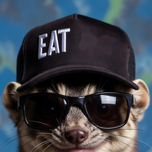
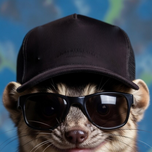
Give the home-screen weasel a plain black hat
Inpaint EAT as well as SHIT out of the cap on apple-touch, manifest, and
favicon icons so no lettering remains. Header logo stays uncensored.

Changed region(s): [[0.2368, 0.1842, 0.4737, 0.3947], [0.7368, 0.1579, 0.7895, 0.2105], [0.5263, 0.2895, 0.5526, 0.3421]]

diff --git a/index.html b/index.html
@@ -12,14 +12,14 @@
 <meta name="application-name" content="Weasel Hub">
 <meta name="apple-mobile-web-app-capable" content="yes"><meta name="mobile-web-app-capable" content="yes">
 <meta name="apple-mobile-web-app-status-bar-style" content="black-translucent">
-<link rel="apple-touch-icon" href="apple-touch-icon.png?v=3">
-<link rel="apple-touch-icon" sizes="180x180" href="apple-touch-icon.png?v=3">
-<link rel="apple-touch-icon" sizes="167x167" href="icons/icon-167.png?v=3">
-<link rel="apple-touch-icon" sizes="152x152" href="icons/icon-152.png?v=3">
-<link rel="icon" type="image/png" sizes="32x32" href="icons/icon-32.png?v=3">
-<link rel="icon" type="image/png" sizes="192x192" href="icons/icon-192.png?v=3">
-<link rel="shortcut icon" href="favicon.ico?v=3">
-<link rel="manifest" href="manifest.webmanifest?v=3">
+<link rel="apple-touch-icon" href="apple-touch-icon.png?v=4">
+<link rel="apple-touch-icon" sizes="180x180" href="apple-touch-icon.png?v=4">
+<link rel="apple-touch-icon" sizes="167x167" href="icons/icon-167.png?v=4">
+<link rel="apple-touch-icon" sizes="152x152" href="icons/icon-152.png?v=4">
+<link rel="icon" type="image/png" sizes="32x32" href="icons/icon-32.png?v=4">
+<link rel="icon" type="image/png" sizes="192x192" href="icons/icon-192.png?v=4">
+<link rel="shortcut icon" href="favicon.ico?v=4">
+<link rel="manifest" href="manifest.webmanifest?v=4">
 <link rel="preconnect" href="https://api.sleeper.app"><link rel="preconnect" href="https://sleepercdn.com">
 <link rel="preconnect" href="https://fonts.googleapis.com"><link rel="preconnect" href="https://fonts.gstatic.com" crossorigin>
 <link href="https://fonts.googleapis.com/css2?family=Oswald:wght@500;700&display=swap" rel="stylesheet">
@@ -30,5 +30,5 @@
 <main class="wrap" id="view"><div class="spin">Loading&hellip;</div></main>
 <footer class="hqf"><a class="hq" href="https://howibrettyourmother.github.io/shadynasty/" target="_self">SHADYNASTY HQ ↗</a></footer>
 <div class="foot wrap" id="foot">Built in your browser from the public <a href="https://docs.sleeper.com/" rel="noopener">Sleeper API</a>, ESPN public scoreboard &amp; FantasyCalc values. Private page, not indexed.</div>
-<script src="app.js?v=33"></script><script src="tabs.js?v=21"></script><script src="tabs2.js?v=13"></script><script src="live.js?v=22"></script><script src="hub2.js?v=5"></script><script src="hub3.js?v=4"></script><script src="hub4.js?v=4"></script><script src="cc.js?v=7"></script><script src="core.js?v=1"></script><script src="hub5.js?v=1"></script><script src="hub6.js?v=4"></script><script src="hub7.js?v=3"></script>
+<script src="app.js?v=34"></script><script src="tabs.js?v=21"></script><script src="tabs2.js?v=13"></script><script src="live.js?v=22"></script><script src="hub2.js?v=5"></script><script src="hub3.js?v=4"></script><script src="hub4.js?v=4"></script><script src="cc.js?v=7"></script><script src="core.js?v=1"></script><script src="hub5.js?v=1"></script><script src="hub6.js?v=4"></script><script src="hub7.js?v=3"></script>
 </body></html>

diff --git a/app.js b/app.js
@@ -83,8 +83,8 @@ function pinfo(id){
   if(db)return {id:id,n:db.n,pos:db.p[0],fp:db.p,team:db.t,inj:IJ.inj,body:db.b,stsrc:IJ.src,active:IJ.active};
   return {id:id,n:'Player '+id,pos:'?',fp:[],team:null,inj:null,unknown:true}}
 function head(id,cls){var pi=pinfo(id);
-  if(pi.pos==='DEF')return '<img class="hs def '+(cls||'')+'" loading="lazy" alt="" src="https://sleepercdn.com/images/team_logos/nfl/'+String(id).toLowerCase()+'.png" onerror="this.onerror=null;this.src=\'icons/icon-192.png?v=3\';this.style.opacity=.35">';
-  return '<img class="hs '+(cls||'')+'" loading="lazy" alt="" src="https://sleepercdn.com/content/nfl/players/thumb/'+id+'.jpg" onerror="this.onerror=null;this.src=\'icons/icon-192.png?v=3\';this.style.opacity=.35">'}
+  if(pi.pos==='DEF')return '<img class="hs def '+(cls||'')+'" loading="lazy" alt="" src="https://sleepercdn.com/images/team_logos/nfl/'+String(id).toLowerCase()+'.png" onerror="this.onerror=null;this.src=\'icons/icon-192.png?v=4\';this.style.opacity=.35">';
+  return '<img class="hs '+(cls||'')+'" loading="lazy" alt="" src="https://sleepercdn.com/content/nfl/players/thumb/'+id+'.jpg" onerror="this.onerror=null;this.src=\'icons/icon-192.png?v=4\';this.style.opacity=.35">'}
 function posChip(pos){var c=/^(QB|RB|WR|TE|K|DEF)$/.test(pos)?pos:'IDP';return '<span class="pos '+c+'">'+esc(pos||'?')+'</span>'}
 
 // ---------------- schedule (ESPN public scoreboard; CORS *) ----------------
